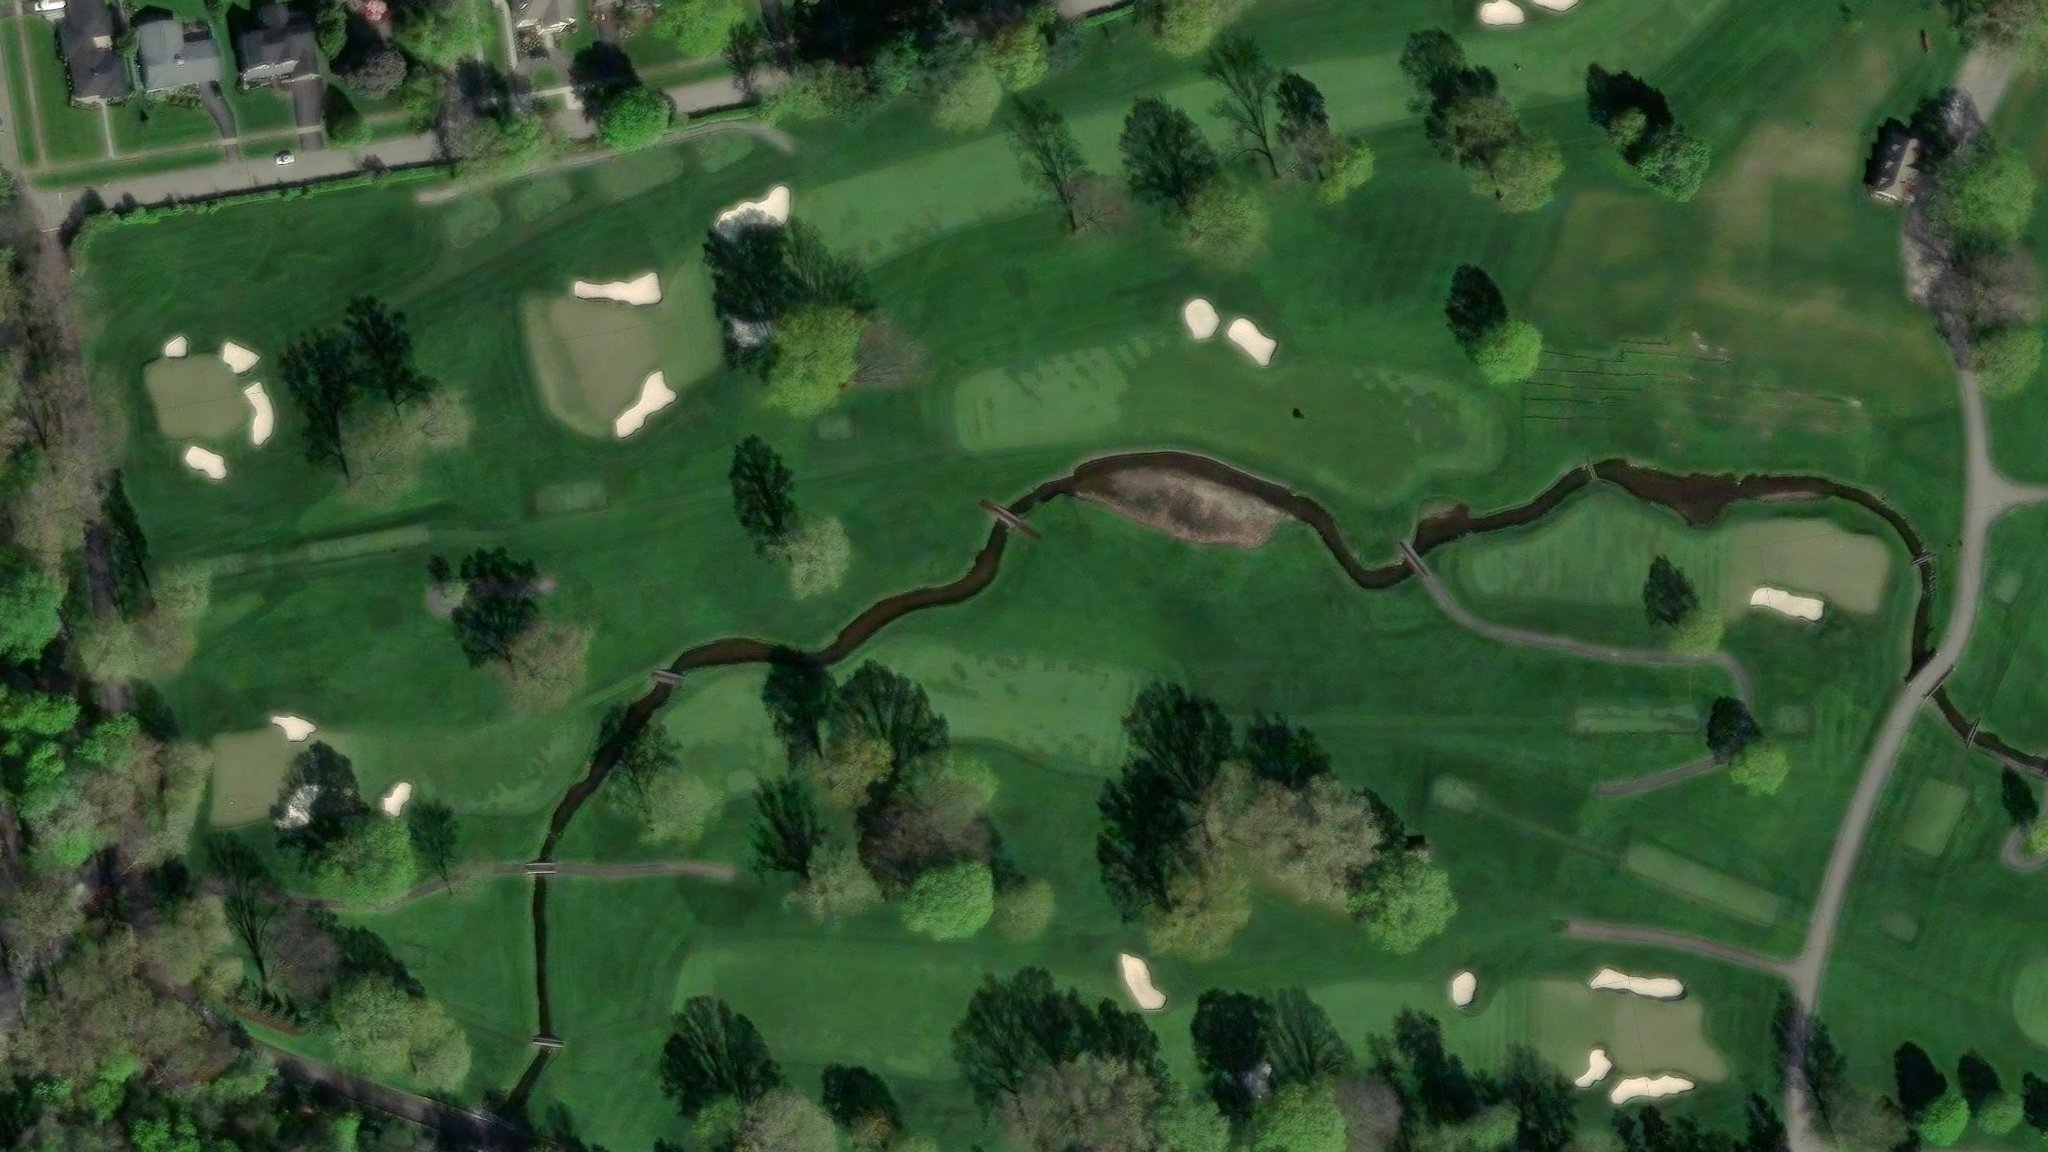
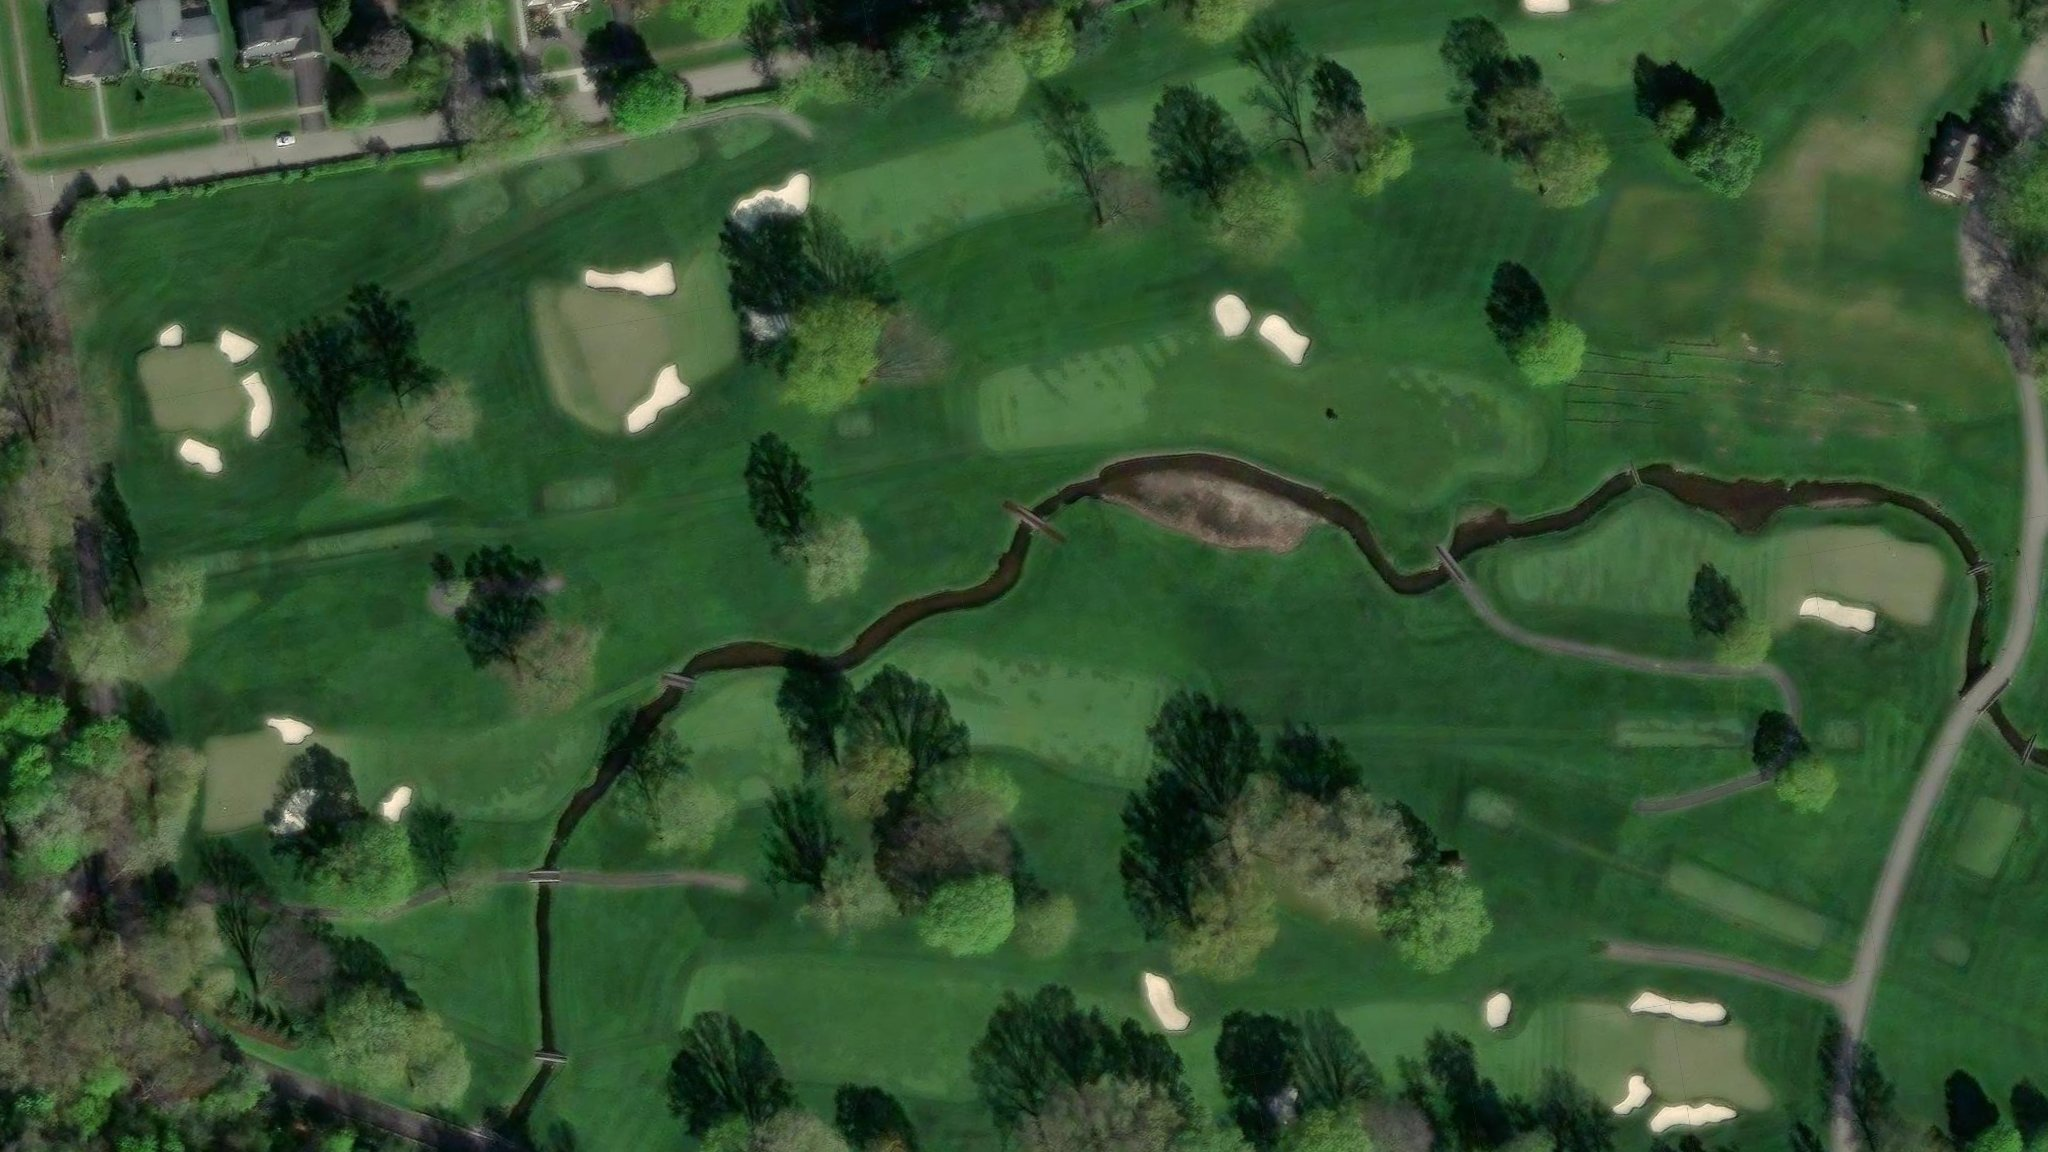
Marshal guide: 8 hole images, 36 stations (+1 image file)

diff --git a/js/holes-data.js b/js/holes-data.js
@@ -1,5 +1,5 @@
 // Hole images and marshal stations.
-// Saved from admin.html on 2026-08-25T00:26:28.945Z
+// Saved from admin.html on 2026-08-25T00:27:37.100Z
 const HOLES_DATA = {
   "east": {
     "name": "Oak Hill East",
@@ -317,8 +317,26 @@ const HOLES_DATA = {
             }
           ]
         },
-        "image": null,
-        "imageReady": false,
+        "image": {
+          "src": "images/holes/east-06.jpg",
+          "width": 2048,
+          "height": 1152,
+          "tee": {
+            "x": 0.08000000000024449,
+            "y": 0.5000000000026269
+          },
+          "green": {
+            "x": 0.9200000000002444,
+            "y": 0.5000000000026268
+          },
+          "shots": [
+            {
+              "x": 0.5961301741291658,
+              "y": 0.34309619299823074
+            }
+          ]
+        },
+        "imageReady": true,
         "spotsDone": false,
         "lengthYards": 508.87380108522206
       },
